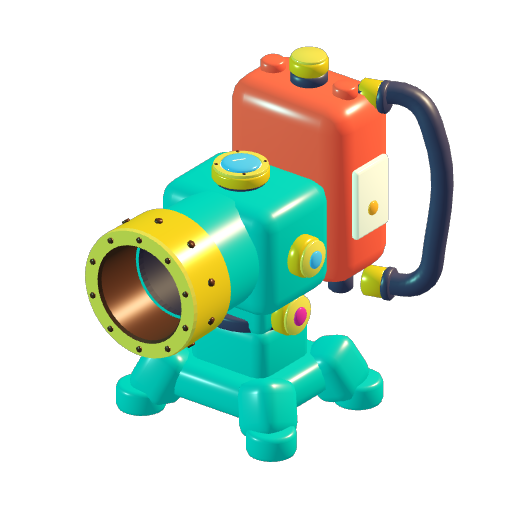
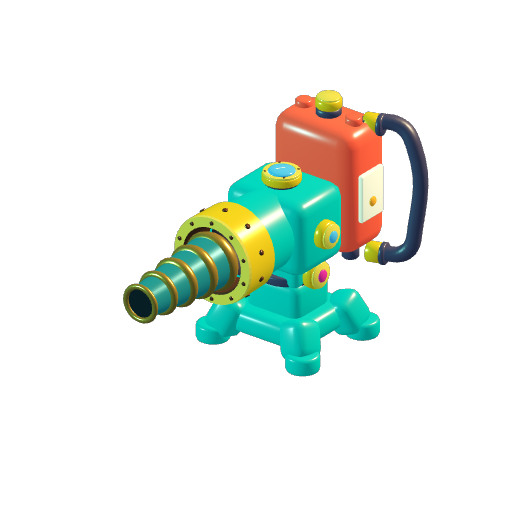
✨ Add evolving burner fans and focused flame nozzles

diff --git a/doc/plans/turret-expansion-progress.md b/doc/plans/turret-expansion-progress.md
@@ -79,3 +79,9 @@ This is a durable stationary-target showcase, not evidence of encounter balance 
 Repeater Bow / Volley Ballista / Arrowstorm now use two / three / five authored bow channels on a widened receiver. Each burst launches from its own muzzle and converges on the snapshotted target; all loaded arrows hide and reload together. Greatbow / Harpoon Ballista / Titan Bow use a widening horizontal bow with one / two / three layered limb assemblies and a thicker loaded arrow. The exit remains at the original depth to avoid passing through close targets. No Blender source/export changes: runtime assemblies reuse the frozen authored meshes/materials.
 
 Triangle counts: base 9,688; repeater forms 12,944 / 16,200 / 22,712; heavy forms 9,688 / 12,760 / 15,832. Extra geometry buys distinct channels and laminate silhouettes. Shared materials and mesh resources are reused; draw-call optimization remains a later performance pass. All six portraits rebuilt and reviewed on a dark background. Regression tests cover channel/muzzle correspondence, converging shots, reload visibility, horizontal layers and unchanged muzzle reach. Full suite: 978 passed.
+
+### Flamethrower visual evolution
+
+Wide Flame / Furnace Fan / Inferno Crown gain one / two / three additional burner pairs on a brass fuel manifold. Each open burner has a recessed bore and contributes a narrow flame stream; the outer streams track the 60 / 85 / 110 degree attack fan. Focused Jet / Dragon Nozzle / Dragonheart gain an increasingly long tapered pressure nozzle with cooling rings, and the flame origin moves to its actual exit. The original tank, hose, gauge and base remain the authored chassis. Added parts are runtime meshes with shared brass/teal/graphite materials. Cone damage and burn attribution remain one attack irrespective of emitter count.
+
+Updated all six portraits. Native close and default-zoom reviews show distinct fan/nozzle silhouettes and effects aligned with the new hardware. Targeted regression coverage checks burner counts, forward orientation, staged nozzle extension, single-hit damage and burn source. Other branches still need their visual evolution passes.
